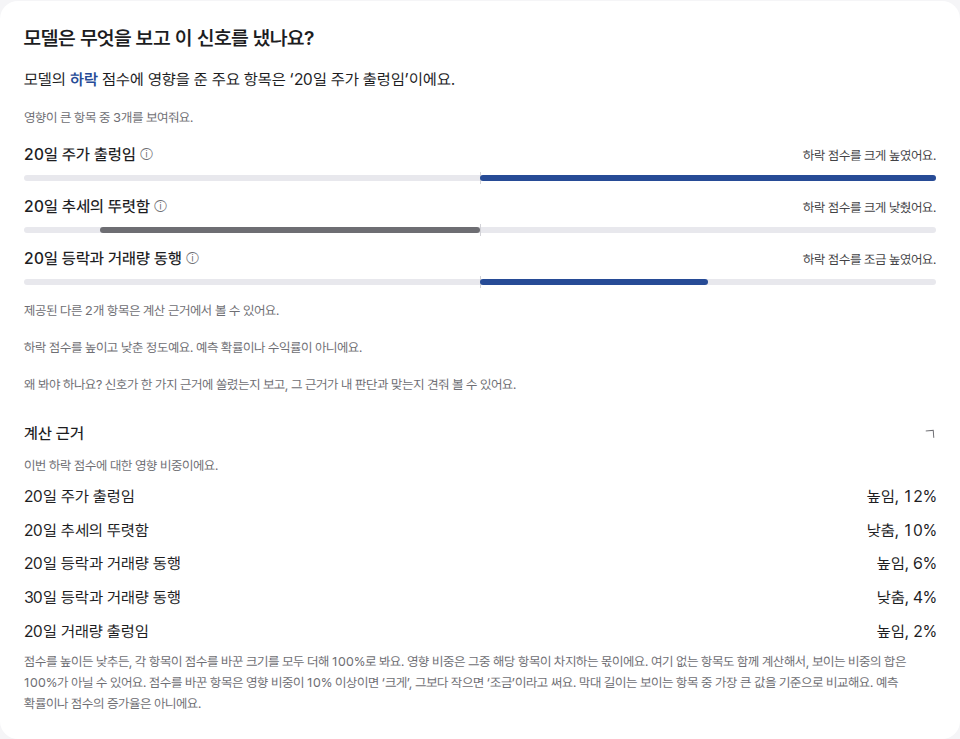
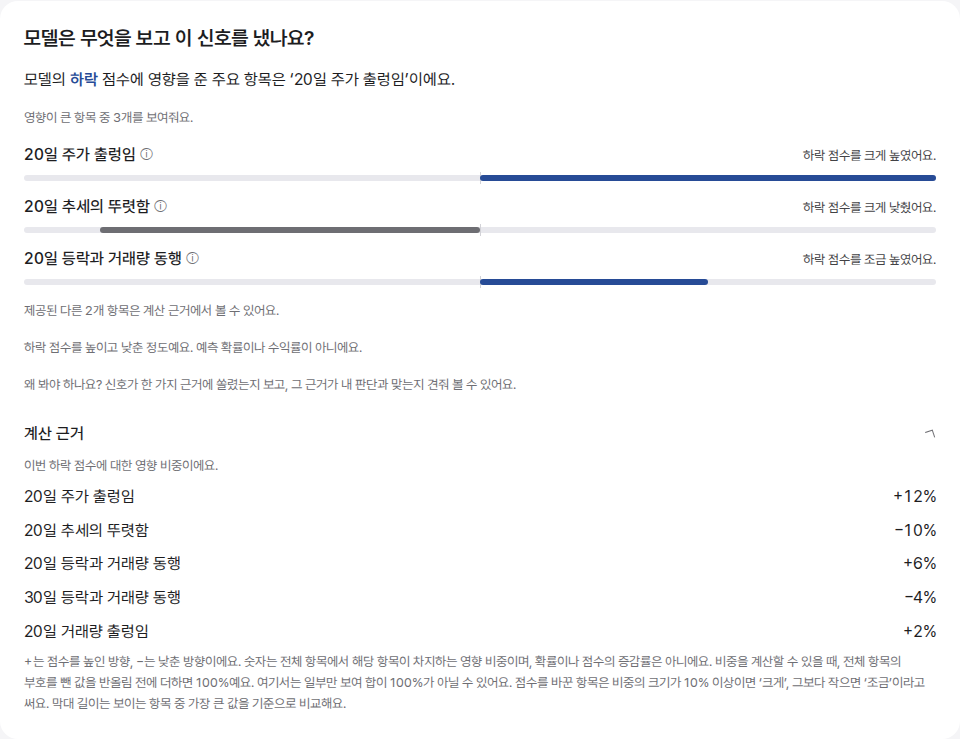
fix(web): show signed contribution shares in calculation details

Changed region(s): [[0.0312, 0.6536, 0.9688, 0.9648]]

diff --git a/frontend/tests/e2e/chart-preview.spec.ts b/frontend/tests/e2e/chart-preview.spec.ts
@@ -88,7 +88,7 @@ test("feature shares use the whole-model denominator and raw values are collapse
   await expect(model.locator("details.disclosure")).not.toHaveAttribute("open", "");
   await model.locator("summary", { hasText: "계산 근거" }).click();
   await expect(model.locator("dd").first()).toContainText(contributionPercent(features[0].contribution, 1));
-  await expect(model).toContainText("각 항목이 점수를 바꾼 크기를 모두 더해 100%");
+  await expect(model).toContainText("전체 항목의 부호를 뺀 값을 반올림 전에 더하면 100%");
   await expect(model.locator("[data-model-feature]")).not.toContainText(["영향 비중", "관측값", "관측값"]);
   await page.setViewportSize({ width: 390, height: 844 });
   expect(await page.evaluate(() => document.documentElement.scrollWidth <= innerWidth)).toBe(true);
@@ -224,9 +224,9 @@ test("shares use the entire denominator while bars retain relative scaling and c
   await expect(items.nth(2)).toContainText("조금 낮췄어요");
   await expect(items).not.toContainText(["관측값", "관측값", "관측값"]);
   await panel.getByText("계산 근거", { exact: true }).click();
-  await expect(panel.locator("dd").nth(0)).toHaveText("높임, 12%");
-  await expect(panel.locator("dd").nth(1)).toHaveText("낮춤, 12%");
-  await expect(panel.locator("dd").nth(2)).toHaveText("낮춤, 0.1% 미만");
+  await expect(panel.locator("dd").nth(0)).toHaveText("+12%");
+  await expect(panel.locator("dd").nth(1)).toHaveText("−12%");
+  await expect(panel.locator("dd").nth(2)).toHaveText("−(0.1% 미만)");
   await expect(panel).not.toContainText("+0.1200");
   await expect(panel).not.toContainText("모델에 넣은 값:");
   await expect(panel.locator("dd")).toHaveCount(5);
@@ -312,6 +312,6 @@ test("mobile feature names stay on one line and detailed copy explains size word
   await expect(panel.getByText("하락 점수를 높이고 낮춘 정도예요. 예측 확률이나 수익률이 아니에요.", { exact: true })).toBeVisible();
   await panel.getByText("계산 근거", { exact: true }).click();
   await expect(panel).toContainText("10% 이상이면 ‘크게’, 그보다 작으면 ‘조금’");
-  await expect(panel).toContainText("각 항목이 점수를 바꾼 크기를 모두 더해 100%");
-  await expect(panel.locator("dd").first()).toHaveText("낮춤, 12%");
+  await expect(panel).toContainText("전체 항목의 부호를 뺀 값을 반올림 전에 더하면 100%");
+  await expect(panel.locator("dd").first()).toHaveText("−12%");
 });

diff --git a/frontend/app/components/insight-cards.tsx b/frontend/app/components/insight-cards.tsx
@@ -942,11 +942,11 @@ function ContributionPanel({
           {features.map(feature => (
             <div key={feature.name} className="contents">
               <dt>{feature.label_ko}</dt>
-              <dd className="m-0 text-right tabular-nums">{feature.contribution === 0 ? "변화 없음" : feature.contribution > 0 ? "높임" : "낮춤"}, {contributionPercent(feature.contribution, total)}</dd>
+              <dd className="m-0 text-right tabular-nums">{contributionPercent(feature.contribution, total)}</dd>
             </div>
           ))}
         </dl>
-        <p className="m-0 text-xs text-muted">점수를 높이든 낮추든, 각 항목이 점수를 바꾼 크기를 모두 더해 100%로 봐요. 영향 비중은 그중 해당 항목이 차지하는 몫이에요. 여기 없는 항목도 함께 계산해서, 보이는 비중의 합은 100%가 아닐 수 있어요. 점수를 바꾼 항목은 영향 비중이 10% 이상이면 ‘크게’, 그보다 작으면 ‘조금’이라고 써요. 막대 길이는 보이는 항목 중 가장 큰 값을 기준으로 비교해요. 예측 확률이나 점수의 증가율은 아니에요.</p>
+        <p className="m-0 text-xs text-muted">+는 점수를 높인 방향, −는 낮춘 방향이에요. 숫자는 전체 항목에서 해당 항목이 차지하는 영향 비중이며, 확률이나 점수의 증감률은 아니에요. 비중을 계산할 수 있을 때, 전체 항목의 부호를 뺀 값을 반올림 전에 더하면 100%예요. 여기서는 일부만 보여 합이 100%가 아닐 수 있어요. 점수를 바꾼 항목은 비중의 크기가 10% 이상이면 ‘크게’, 그보다 작으면 ‘조금’이라고 써요. 막대 길이는 보이는 항목 중 가장 큰 값을 기준으로 비교해요.</p>
         </div>
       </details>
     </>

diff --git a/frontend/lib/display.test.ts b/frontend/lib/display.test.ts
@@ -26,13 +26,14 @@ test("본문 크기 말은 기존 전체 합 10% 기준으로 유지한다", () 
 });
 
 test("상세 영향 비중은 원시 기여값이 아니라 전체 절댓값 합으로 나눈 %다", () => {
-  assert.equal(contributionPercent(.12, 1), "12%");
-  assert.equal(contributionPercent(-.12, .6), "20%");
-  assert.equal(contributionPercent(.6, 1), "60%");
-  assert.equal(contributionPercent(-.4, 1), "40%");
-  assert.equal(contributionPercent(.1234, 1), "12.3%");
-  assert.equal(contributionPercent(-.00000012, 1), "0.1% 미만");
+  assert.equal(contributionPercent(.12, 1), "+12%");
+  assert.equal(contributionPercent(-.12, .6), "−20%");
+  assert.equal(contributionPercent(.6, 1), "+60%");
+  assert.equal(contributionPercent(-.4, 1), "−40%");
+  assert.equal(contributionPercent(.1234, 1), "+12.3%");
+  assert.equal(contributionPercent(-.00000012, 1), "−(0.1% 미만)");
   assert.equal(contributionPercent(-0, 1), "0%");
+  assert.equal(contributionPercent(.00000012, 1), "+(0.1% 미만)");
   for (const total of [undefined, 0, -1, NaN, Infinity, .01]) {
     assert.equal(contributionShare(.12, total), undefined);
     assert.equal(contributionPercent(.12, total), "미제공");

diff --git a/frontend/lib/display.ts b/frontend/lib/display.ts
@@ -154,5 +154,7 @@ export function contributionPercent(contribution: number, total?: number): strin
   const share = contributionShare(contribution, total);
   if (share === undefined) return "미제공";
   const percent = share * 100;
-  return percent > 0 && percent < 0.1 ? "0.1% 미만" : `${Number(percent.toFixed(1))}%`;
+  if (share === 0) return "0%";
+  const sign = contribution > 0 ? "+" : "−";
+  return percent < 0.1 ? `${sign}(0.1% 미만)` : `${sign}${Number(percent.toFixed(1))}%`;
 }

diff --git a/docs/qa/2026-10-27-model-reasons/README.md b/docs/qa/2026-10-27-model-reasons/README.md
@@ -26,14 +26,14 @@
 
 - 기존 항목명과 상대 막대 길이를 유지한다. 모바일 이름은 한 줄로 표시하며, 한 행에 함께 들어가지 않는 영향 문구만 다음 줄 오른쪽으로 보낸다. 본문 오른쪽에는 '하락 점수를 크게/조금 높였어요'를 표시한다. 전체 피처 절댓값 합의 10% 이상이면 크게, 미만이면 조금이다. 분모가 없거나 0이면 방향만 표시한다.
 - 설명은 본문에서 제거하고 다른 UI와 같은 공통 ⓘ 팝업으로 옮긴다. 모델 피처만 마우스 호버를 허용하며 클릭/터치/Enter도 지원한다. 설명 위로 이동해 읽을 수 있고 Escape/바깥 클릭으로 닫을 수 있다. 다른 용어 설명의 클릭 전용 동작은 바꾸지 않는다.
-- '계산 근거'는 기존 두 열 표다. '+0.1200' 같은 내부 원점수 대신 '높임, 12%' / '낮춤, 10%'처럼 방향과 영향 비중을 표시한다. 원점수를 단순히 100배 해 %로 바꾸는 것이 아니다.
+- '계산 근거'는 기존 두 열 표다. '+0.1200' 같은 내부 원점수 대신 '+12%' / '−10%'처럼 부호와 영향 비중을 표시한다. 원점수를 단순히 100배 해 %로 바꾸는 것이 아니다.
 - 영향 비중 = 이번 대상 클래스의 해당 기여값 절댓값 / 전체 피처 기여값 절댓값 합 × 100. 보이지 않는 항목을 포함하고 모델 기준값은 제외한다. 확률이나 점수 증가율이 아니다.
-- 소수 첫째 자리까지 반올림하되 끝의 0은 생략한다. 양수 비중이 0.1% 미만이면 '0.1% 미만', 전체 합 누락/0이면 '미제공'으로 표시한다.
+- 소수 첫째 자리까지 반올림하되 끝의 0은 생략한다. 비중의 크기가 0.1% 미만이면 '+(0.1% 미만)' / '−(0.1% 미만)', 전체 합 누락/0이면 '미제공'으로 표시한다.
 - 본문은 최대 3개, 계산 근거는 서버가 제공한 상위 최대 5개다. 전체 모델 입력 목록으로 부르지 않으며, 비중 합이 100%가 아닐 수 있음을 안내한다.
 - 관측값과 원래 계산식은 화면에 표시하지 않는다. 모델 입력/기여값과 서버 설명 메타데이터는 변경하지 않는다.
 
 - 막대 아래에는 기존처럼 대상 점수를 높이고 낮춘 정도이며 예측 확률이나 수익률이 아니라는 짧은 안내만 둔다.
-- 계산 근거 아래에는 각 항목이 점수를 바꾼 크기를 모두 합쳐 100%로 비교한다는 쉬운 설명과, 영향 비중 10% 이상은 크게/미만은 조금이라는 기준을 둔다. 막대 길이 비교 기준도 여기서 안내한다.
+- 계산 근거 아래에는 부호의 뜻, 확률/점수 증감률이 아니라는 설명, 전체 항목의 반올림 전 절댓값 합이 100%라는 조건과 일부 항목 표시의 한계, 영향 비중 10% 이상은 크게/미만은 조금이라는 기준을 둔다. 막대 길이 비교 기준도 여기서 안내한다.
 
 ## 설명 사전
 

diff --git a/frontend/DESIGN.md b/frontend/DESIGN.md
@@ -79,9 +79,9 @@
 - 피처 이름은 기존 사전을 유지하며 한 줄로 표시한다. 모바일에서 오른쪽 영향 문구와 함께 들어가지 않으면 영향 문구만 다음 줄 오른쪽으로 보낸다. 쉬운 설명은 `featureLabels.ts`에 모으고 공통 ⓘ(`MarketDetail`)에서만 보여준다. 본문에 설명이나 관측값을 늘어놓지 않는다.
 - 피처 설명은 사용자 요청에 따른 호버 예외다. 마우스로 ⓘ가 붙은 이름에 올리면 열고 설명 위로 이동해도 유지한다. 클릭/터치/Enter로도 열고, 바깥 클릭과 Escape로 닫는다. 다른 용어 설명은 기존 클릭 동작을 유지한다.
 - 본문 오른쪽 문구는 기존처럼 '하락 점수를 크게/조금 높였어요'다. '크게'는 전체 피처 절댓값 합의 10% 이상, '조금'은 미만이다. 합이 없거나 0이면 크기 말 없이 방향만 쓴다.
-- '계산 근거'는 기존 두 열 표를 유지하고 원래 +/− 기여값 대신 '높임, 12%' / '낮춤, 10%'처럼 방향과 영향 비중을 보여준다.
+- '계산 근거'는 기존 두 열 표를 유지하고 원래 +/− 기여값 대신 '+12%' / '−10%'처럼 부호로 방향을 표시한다. 정확한 0은 '0%'로 표시한다.
 - 영향 비중 = 해당 기여값 절댓값 / 대상 클래스의 전체 피처 기여값 절댓값 합. 모델 기준값은 제외하며, 보이지 않는 항목도 분모에 포함한다. 전체 합이 없거나 0이면 비중은 미제공으로 표시한다.
-- 영향 비중은 소수 첫째 자리까지 표시하되 끝의 0은 뺀다. 양수인데 0.1% 미만이면 '0.1% 미만'으로 표시해 정확한 0과 구분한다. 확률 변화나 점수 증가율로 설명하지 않는다.
+- 영향 비중은 소수 첫째 자리까지 표시하되 끝의 0은 뺀다. 비중 크기가 0.1% 미만이면 '+(0.1% 미만)' / '−(0.1% 미만)'으로 표시해 방향과 작은 크기를 보존한다. 전체 항목의 비중은 반올림 전 절댓값 합이 100%이며, 일부 항목만 보이거나 반올림하면 화면 합은 다를 수 있음을 안내한다. 확률 변화나 점수 증가율로 설명하지 않는다.
 - 막대는 기존처럼 가운데 0, 왼쪽 낮춤, 오른쪽 높임이며 보이는 항목 중 가장 큰 절댓값 기준이다. 영향 비중과 막대의 비교 기준이 다름을 안내한다. 색은 기존 규칙을 유지한다.
 - 막대 아래에는 대상 점수를 높이고 낮춘 정도이며 예측 확률이나 수익률이 아니라는 짧은 안내를 유지한다. 크기 말의 10% 경계, 영향 비중의 쉬운 설명과 막대 비교 기준은 계산 근거 아래에 둔다.
 - 목록 위에 일부 항목만 표시함을 안내하고, 계산 근거에서 비중 합이 100%가 아닐 수 있음을 밝힌다. 전체 모델 입력 목록이라고 부르지 않는다.
